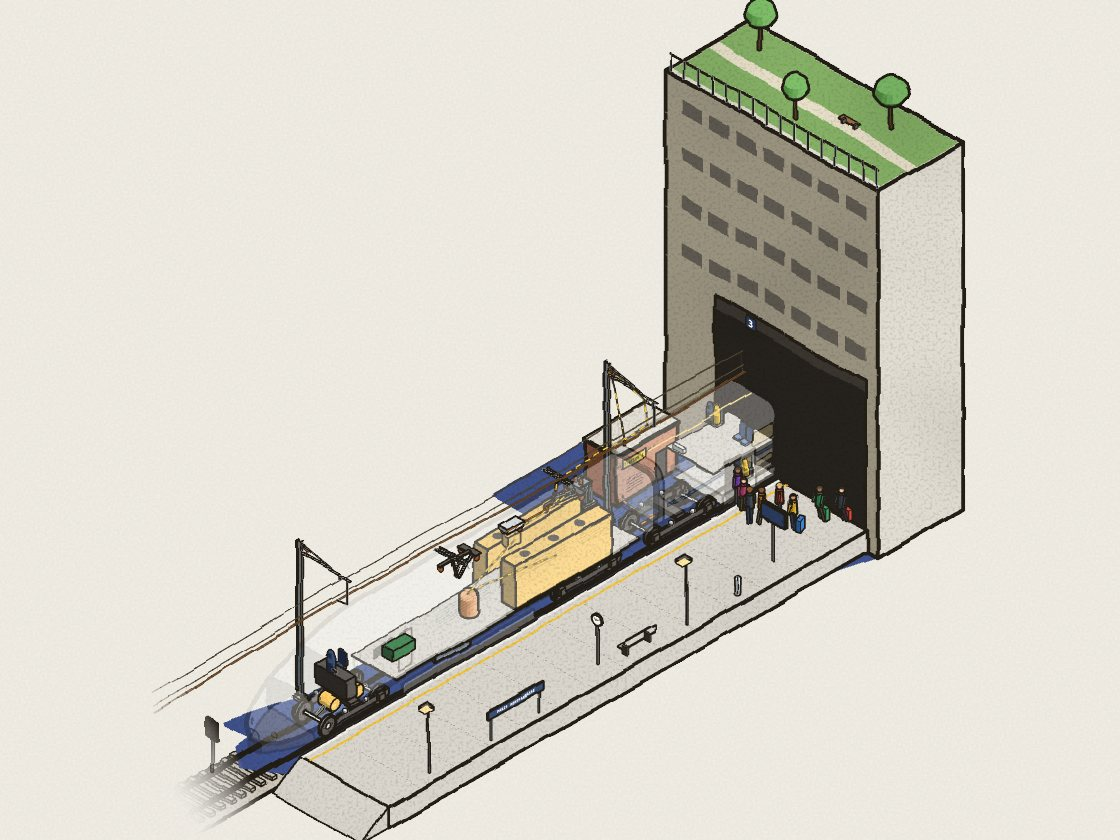
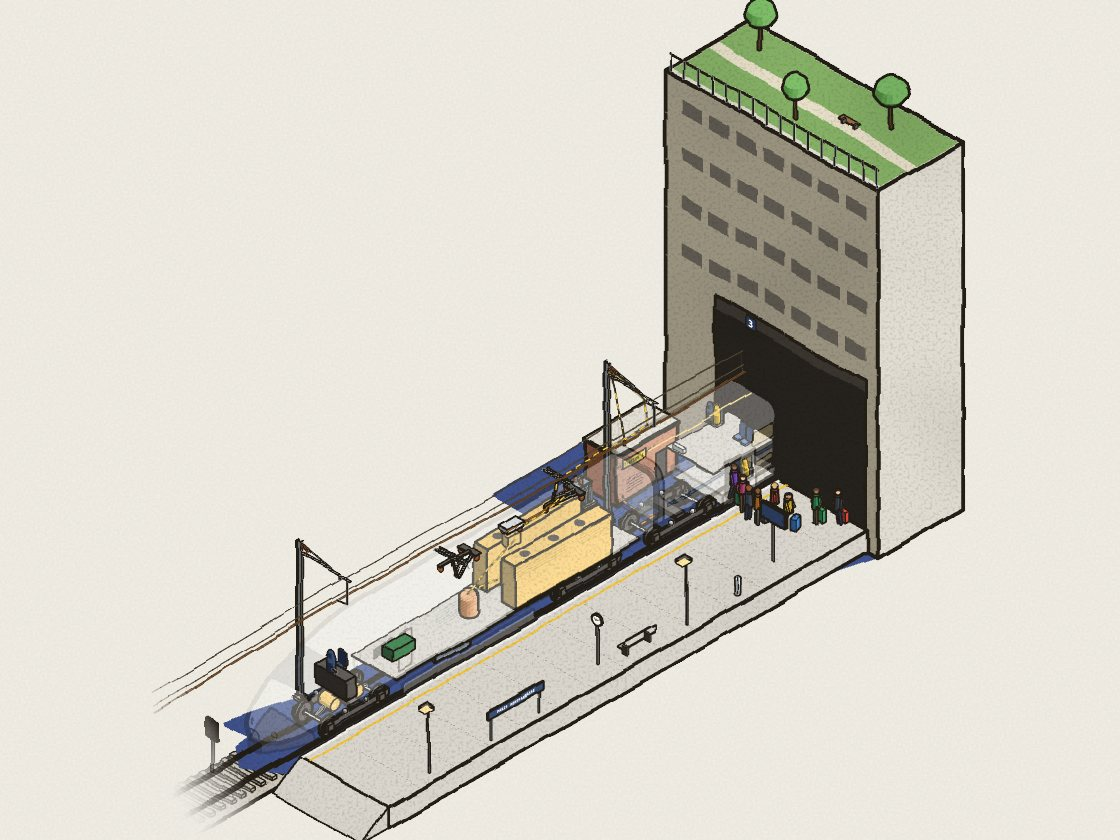
TGV : scintillements corrigés, figure plus fluide
- Le tri ne se laisse plus piéger par la grande boîte de la dalle : les
  voyageur·euse·s sortent devant elle, et dans un cycle les boîtes
  séparées gardent leur ordre (la profondeur ne départage qu'en dernier).
  La voiture ne clignote plus derrière la face sombre pendant
  l'embarquement.
- Pare-brise : seulement le haut du nez (il débordait sur l'arrondi bas).
- Fluidité : sol (ballast, traverses, ombres fixes) redessiné seulement
  quand la vue tourne, gravier en motif, étiquettes calculées seulement
  quand elles sont affichées, moins de facettes ; pendant les animations
  et la rotation à la main, le grain du papier est remplacé par une
  teinte unie de même luminosité. Rendu d'une image : 19 -> 14 ms.

Claude-Session: https://claude.ai/code/session_01Ww5YNuDCWfJJo8wc14Vv2R

diff --git a/figures/tgv-montparnasse.html b/figures/tgv-montparnasse.html
@@ -724,7 +724,7 @@ function kit(){ const parts = [];
   const put = (b, svg) => { if (svg) parts.push({ box: b, svg }); };
   return { parts, put,
     bx: (x0, y0, z0, x1, y1, z1, M, sh = tone, w = .8) => put([[x0, y0, z0], [x1, y1, z1]], box(x0, y0, z0, x1, y1, z1, M, sh, w)),
-    rd: (a, b, r, M, sh = tone, w = .8, r1 = r, n = 12) => put(rbox(a, b, r, r1), rod(a, b, r, M, sh, w, r1, n)) }; }
+    rd: (a, b, r, M, sh = tone, w = .8, r1 = r, n = 8) => put(rbox(a, b, r, r1), rod(a, b, r, M, sh, w, r1, n)) }; }
 // a thin line (wire, rope, cable) cut into short pieces, each with its own box, so it sorts with the solids it passes
 function lineParts(K, pts, col, w, L = 12, edge = true){
   for (let i = 0; i < pts.length - 1; i++){ const a = pts[i], b = pts[i + 1], n = Math.max(1, Math.ceil(Math.hypot(...sub(b, a)) / L));
@@ -734,24 +734,33 @@ function lineParts(K, pts, col, w, L = 12, edge = true){
 function lcSort(parts){
   const it = parts.filter(Boolean).map(p => { const b = p.box, X = [], Y = [];
     for (const x of [b[0][0], b[1][0]]) for (const y of [b[0][1], b[1][1]]) for (const z of [b[0][2], b[1][2]]){ const q = P(x, y, z); X.push(q[0]); Y.push(q[1]); }
-    return { p, d: depthOf(boxMid(b)), x0: Math.min(...X), x1: Math.max(...X), y0: Math.min(...Y), y1: Math.max(...Y), out: [], i: -1, low: 0, on: false }; });
+    return { p, d: depthOf(boxMid(b)), x0: Math.min(...X), x1: Math.max(...X), y0: Math.min(...Y), y1: Math.max(...Y), out: [], hard: [], i: -1, low: 0, on: false }; });
   for (let i = 0; i < it.length; i++) for (let j = i + 1; j < it.length; j++){ const a = it[i], b = it[j];
     if (a.x1 <= b.x0 || b.x1 <= a.x0 || a.y1 <= b.y0 || b.y1 <= a.y0) continue;
     let s = 0, clash = false;
     for (let k = 0; k < 3; k++){ if (Math.abs(CAM_V[k]) < 1e-3) continue; const A = a.p.box, B = b.p.box, v = A[1][k] <= B[0][k] + 1e-6 ? (CAM_V[k] >= 0 ? -1 : 1) : B[1][k] <= A[0][k] + 1e-6 ? (CAM_V[k] >= 0 ? 1 : -1) : 0;
       if (v && s && v !== s) clash = true; if (v) s = v; }
     if (clash) continue;
-    if (!s) s = a.d <= b.d ? -1 : 1;
-    if (s < 0) a.out.push(b); else b.out.push(a); }
+    const hard = !!s; if (!s) s = a.d <= b.d ? -1 : 1;
+    const [u, v] = s < 0 ? [a, b] : [b, a]; u.out.push(v); if (hard) u.hard.push(v); }
   let n = 0; const stk = [], comps = [];
   const visit = v => { v.i = v.low = n++; stk.push(v); v.on = true;
     for (const w of v.out){ if (w.i < 0){ visit(w); v.low = Math.min(v.low, w.low); } else if (w.on) v.low = Math.min(v.low, w.i); }
     if (v.low === v.i){ const c = []; let w; do { w = stk.pop(); w.on = false; c.push(w); } while (w !== v); comps.push(c); } };
   for (const v of it.slice().sort((a, b) => a.d - b.d)) if (v.i < 0) visit(v);
-  return comps.reverse().map(c => c.sort((a, b) => a.d - b.d).map(v => v.p.svg).join('')).join('');
+  // inside a cycle, separated boxes still keep their order (hard edges); only the depth guesses give way
+  const inside = c => { if (c.length < 2) return c; const set = new Set(c), indeg = new Map(c.map(v => [v, 0]));
+    for (const v of c) for (const w of v.hard) if (set.has(w)) indeg.set(w, indeg.get(w) + 1);
+    const left = new Set(c), out = [];
+    while (left.size){ let pick = null;
+      for (const v of left) if (!indeg.get(v) && (!pick || v.d < pick.d)) pick = v;
+      if (!pick) for (const v of left) if (!pick || v.d < pick.d) pick = v;
+      left.delete(pick); out.push(pick); for (const w of pick.hard) if (left.has(w)) indeg.set(w, indeg.get(w) - 1); }
+    return out; };
+  return comps.reverse().map(c => inside(c).map(v => v.p.svg).join('')).join('');
 }
 // a turned part round a vertical axis at (x, y), from a profile [[z, r], ...] bottom to top
-function lathe(x, y, prof, M, w = 1.1, n = 20, sh = tone){
+function lathe(x, y, prof, M, w = 1.1, n = 14, sh = tone){
   const R = prof.map(([z, r]) => on(PZ(z), ellUV(x, y, Math.max(r, .05), Math.max(r, .05), n))); let s = '';
   for (let i = 0; i < R.length - 1; i++) s += loft(R[i], R[i + 1], nr => sh(nr, M));
   s += fill(pd(R[R.length - 1]), sh([0,0,1], M));
@@ -777,10 +786,10 @@ function hollowBox(x0, y0, z0, x1, y1, z1, M, contents, farOp = 1, nearOp = .3, 
 }
 // a plate wheel on an axle along x (TGV wheels are solid discs): tyre band, face with its hub toward the viewer
 function wheelX(xa, xb, y, z, r, M, ang){
-  const A = on(PX(xa), ellUV(y, z, r, r, 26)), B = on(PX(xb), ellUV(y, z, r, r, 26));
+  const A = on(PX(xa), ellUV(y, z, r, r, 18)), B = on(PX(xb), ellUV(y, z, r, r, 18));
   let s = loft(A, B, n => tone(n, TYRE));
   const fx = facing([1,0,0]) ? xb + .02 : facing([-1,0,0]) ? xa - .02 : null;
-  if (fx != null){ const nx = fx > xb ? 1 : -1, rg = (rr, dy = 0, dz = 0) => on(PX(fx), ellUV(y + dy, z + dz, rr, rr, 22));
+  if (fx != null){ const nx = fx > xb ? 1 : -1, rg = (rr, dy = 0, dz = 0) => on(PX(fx), ellUV(y + dy, z + dz, rr, rr, 16));
     s += `<path d="${pd(rg(r))}${pd(rg(r*.86).reverse())}" fill="${tone([nx,0,0], TYRE)}" fill-rule="evenodd"/>` + shape(rg(r*.86), tone([nx,0,0], M), .6)
       + shape(rg(r*.3), tone([nx,0,0], STEEL), .6) + ink(pd(rg(r)), .8);
     for (let i = 0; i < 4; i++){ const a = ang + i*Math.PI/2; s += fill(pd(rg(r*.07, r*.55*Math.cos(a), r*.55*Math.sin(a))), INK); } }
@@ -793,15 +802,13 @@ const txSide = (x, y, z, str, size, col, sg, fam = 'ui-monospace,Menlo,monospace
 const txEnd = (x, y, z, str, size, col, sg, anchor = 'middle', wt = 800) => `<text transform="${txM(P(x, y, z), Dv(sg, 0, 0), Dv(0, 0, -1))}" font-size="${size}" fill="${col}" text-anchor="${anchor}" font-family="ui-monospace,Menlo,monospace" font-weight="${wt}" letter-spacing=".03em">${str}</text>`;
 
 /* ---------- la voie ---------- */
-const GRAVEL = (() => { let sd = 11; const r = () => (sd = (sd*16807) % 2147483647) / 2147483647, o = [];
-  for (let i = 0; i < 700; i++) o.push([TX - 14.5 + 29*r(), SLABY + 1 + (D - SLABY - 2)*r(), r()]); return o; })();
 function trackBed(){
   const pr = [[TX - 15, 0], [TX + 15, 0], [TX + 12.8, BAL], [TX - 12.8, BAL]], A = on(PY(SLABY), pr), B = on(PY(D), pr);
   let s = loft(A, B, n => tone(n, BALLAST));
   if (facing([0,1,0])) s += shape(B, tone([0,1,0], BALLAST), .8);
-  let g = '';
-  for (const [x, y, k] of GRAVEL){ if (Math.abs(x - TX) >= 12.8) continue; const q = .35 + .3*k; g += pd([[x - q, y, BAL + .02], [x + q, y, BAL + .02], [x, y + q, BAL + .02]]); }
-  s += fill(g, BALLAST.d, 'opacity=".55"') + hullInk([...A, ...B], 1.6);
+  const top = [[TX - 12.8, SLABY, BAL + .02], [TX + 12.8, SLABY, BAL + .02], [TX + 12.8, D, BAL + .02], [TX - 12.8, D, BAL + .02]];
+  s += `<defs><pattern id="tgGrav" patternUnits="userSpaceOnUse" width="5.3" height="4.1"><path d="M.6 .9l.9-.5.5.8zM3.1 2.2l.8-.4.4.9zM1.4 3.3l.7-.2.2.6zM4.4 .6l.5.1-.3.5z" fill="${BALLAST.d}" opacity=".6"/></pattern></defs>`
+    + fill(pd(top), 'url(#tgGrav)') + hullInk([...A, ...B], 1.6);
   const sl = [];
   for (let y = SLABY + 3; y < D - 1; y += 6){
     let t = box(TX - 12.5, y - 1.3, BAL, TX + 12.5, y + 1.3, TIE, SLEEPER, tone, .6);                       // traverses béton
@@ -990,7 +997,7 @@ function trainParts(st, m, K, k){
       if (uEnd > 80) s += ink(pd([[x, TY(70), RT + 17], [x, TY(77), RT + 17], [x, TY(77), RT + 36], [x, TY(70), RT + 36]]), .7);
       if (uEnd > 200){ let gr = ''; for (const [a, b] of [[92, 124], [136, 168], [176, 206]]) for (let z = RT + 29; z <= RT + 36; z += 1.4) gr += pd([[x, TY(a), z], [x, TY(b), z]], false);
         s += `<path d="${gr}" fill="none" stroke="${BODY.d}" ${mw(.3)}/>`; } }
-    { const ia = 3*7 + 3, ib = 3*7 + 1 + 6, top = (u, k) => { const pts = secPts(u), c = [TX, TY(u), RT + (secAt(u)[2] + secAt(u)[3])/2]; return pts.slice(7 + 3, 21 + 4).map(p => lerp3(c, p, 1.012)); };
+    { const top = u => { const pts = secPts(u), c = [TX, TY(u), RT + (secAt(u)[2] + secAt(u)[3])/2]; return pts.slice(10, 18).map(p => lerp3(c, p, 1.012)); };
       const A = top(20), B = top(37.5), poly = [...B, ...A.reverse()], n = norm(cross(sub(B[0], A[A.length - 1]), sub(B[B.length - 1], B[0])));
       if (vis([0, .5, .9])) s += shape(poly, GLASSD, .8)
         + clipTo(poly, lathe(TX - 3.6, TY(45), [[RT + 22, 2], [RT + 28, 2.2], [RT + 29.5, 1.2], [RT + 30, 1.3], [RT + 32, 1.2], [RT + 32.4, .3]], NAVY, .7, 12))   // the driver, seen through it
@@ -1248,13 +1255,12 @@ function objects(st, m, k){
   for (const p of K.parts) if (p.box[1][1] > D - 60) p.svg = `<g mask="url(#tgFade)">${p.svg}</g>`;
   return lcSort(K.parts);
 }
-function scene(st, m){
+// what never moves (the fade mask, the fixed shadows, ballast and sleepers) is drawn only when the view turns
+function groundSvg(){ return fadeDefs() + staticShadows() + `<g mask="url(#tgFade)">${trackBed()}</g>`; }
+function scene(st, m, withGround = true){
   SS = st.s; const k = ease(st.xr || 0);
-  let s = fadeDefs() + `<defs><filter id="tgGlow" x="-50%" y="-50%" width="200%" height="200%"><feGaussianBlur stdDeviation="${f(1.2*INK_K)}"/></filter></defs>`;
-  let w = staticShadows() + `<g mask="url(#tgFade)">${trackBed() + trainShadow(st) + railsSvg()}</g>`;
-  w += objects(st, m, k);
-  s += w;
-  s += lcCallouts(k > .6 ? insideLabels(st) : surfaceLabels(st));
+  let s = (withGround ? groundSvg() : '') + `<g mask="url(#tgFade)">${trainShadow(st) + railsSvg()}</g>` + objects(st, m, k);
+  if (!document.documentElement.classList.contains('nolabels')) s += lcCallouts(k > .6 ? insideLabels(st) : surfaceLabels(st));
   return s;
 }
 function staticShadows(){
@@ -1311,7 +1317,7 @@ function tick(st, dt){
   // boarding: people come out from under the slab, the count rises, the clock runs to two minutes before departure
   if (st.boarding){ st.spawnT -= dt;
     if (st.spawnT <= 0 && st.spawned < 9){ st.spawnT = .75; st.spawned++;
-      const p = newPerson(st, PE + 14 + (st.spawned*7) % 30, SLABY + 1, { board: true }); p.path = [[p.x, SLABY + 14 + (st.spawned % 3)*3], ...boardPath(p)]; }
+      const p = newPerson(st, PE + 14 + (st.spawned*7) % 30, SLABY + 3, { board: true }); p.path = [[p.x, SLABY + 14 + (st.spawned % 3)*3], ...boardPath(p)]; }
     if (st.doors > .9){ st.boarded = Math.min(CAP, st.boarded + dt*CAP/9); st.minute = Math.min(depMin(st) - 2.5, st.minute + dt*1.7); } }
   stepPeople(st, dt);
   // departure: the agent raises the bat, the signal clears, the driver pushes the lever; current, speed, distance
@@ -1397,7 +1403,34 @@ ui = mountFigure({
 // the people already waiting on the platform, looking at the board
 for (const [x, y, a] of [[96, 104, -Math.PI/2], [101, 110, -Math.PI*.6], [90, 140, Math.PI*.9]]) newPerson(ui.st, x, y, { a });
 ui.render();
+/* ---------- fluidité ----------
+   The drawing is two layers: the ground, rebuilt only when the view turns, and the rest, rebuilt every frame. While
+   something moves, the paper grain (a noise the browser recomputes over the whole figure each frame) is replaced by a
+   flat tone of the same brightness; the wobbly lines stay the same, and the grain comes back when it stops. */
+(() => {
+  const art = document.getElementById('art'); let gk = '', G = null, LV = null;
+  ui.render = () => { const st = ui.st, m = PALS[st.pal]; _clipN = 0; document.documentElement.style.setProperty('--accent', m.l);
+    if (!G || !G.isConnected){ art.innerHTML = '<g></g><g></g>'; G = art.firstChild; LV = art.lastChild; gk = ''; }
+    const key = YAW.toFixed(3) + '/' + PITCH.toFixed(3) + '/' + INK_K;
+    if (key !== gk){ G.innerHTML = inkScale(groundSvg()); gk = key; }
+    LV.innerHTML = inkScale(scene(st, m, false));
+    if (ui.drawStats) ui.drawStats(); };
+  let busy = 0, offT = 0, saved = null;
+  const fast = on => { const fl = document.getElementById('hand'); if (!fl) return;
+    if (on && !saved){ const n1 = fl.querySelector('[result="n1"]'), gr = fl.querySelector('[result="grain"]'); if (!n1 || !gr) return;
+      const fd = document.createElementNS('http://www.w3.org/2000/svg', 'feFlood'); fd.setAttribute('flood-color', 'rgb(251,251,251)'); fd.setAttribute('result', 'grain');
+      saved = [n1, gr, fd]; n1.replaceWith(fd); gr.remove(); }
+    else if (!on && saved){ const [n1, gr, fd] = saved; fd.replaceWith(n1); n1.after(gr); saved = null; } };
+  const anim = ui.animate;
+  ui.animate = step => { busy++; clearTimeout(offT); fast(true); let done = false;
+    anim(dt => { const r = step(dt); if (r === false && !done){ done = true; if (--busy <= 0){ busy = 0; offT = setTimeout(() => fast(false), 250); } } return r; }); };
+  // turning the figure by hand is a motion too
+  const fig = document.getElementById('fig');
+  fig.addEventListener('pointerdown', () => { clearTimeout(offT); fast(true); });
+  addEventListener('pointerup', () => { if (!busy) offT = setTimeout(() => fast(false), 250); });
+})();
 xrMount(() => ui, () => '');
+document.getElementById('lblb').addEventListener('click', () => ui.render());          // labels are drawn only when shown
 
 // tests: ?sim=Lever@0.3,Afficher@2&at=9 presses the buttons at those times (s) in a fast simulation, then draws once;
 // ?bench=1 times a full redraw (<html data-bench="ms">); ?shot=1 hides the page around the drawing

diff --git a/src/tgv-montparnasse/figure.html b/src/tgv-montparnasse/figure.html
@@ -81,7 +81,7 @@ function kit(){ const parts = [];
   const put = (b, svg) => { if (svg) parts.push({ box: b, svg }); };
   return { parts, put,
     bx: (x0, y0, z0, x1, y1, z1, M, sh = tone, w = .8) => put([[x0, y0, z0], [x1, y1, z1]], box(x0, y0, z0, x1, y1, z1, M, sh, w)),
-    rd: (a, b, r, M, sh = tone, w = .8, r1 = r, n = 12) => put(rbox(a, b, r, r1), rod(a, b, r, M, sh, w, r1, n)) }; }
+    rd: (a, b, r, M, sh = tone, w = .8, r1 = r, n = 8) => put(rbox(a, b, r, r1), rod(a, b, r, M, sh, w, r1, n)) }; }
 // a thin line (wire, rope, cable) cut into short pieces, each with its own box, so it sorts with the solids it passes
 function lineParts(K, pts, col, w, L = 12, edge = true){
   for (let i = 0; i < pts.length - 1; i++){ const a = pts[i], b = pts[i + 1], n = Math.max(1, Math.ceil(Math.hypot(...sub(b, a)) / L));
@@ -91,24 +91,33 @@ function lineParts(K, pts, col, w, L = 12, edge = true){
 function lcSort(parts){
   const it = parts.filter(Boolean).map(p => { const b = p.box, X = [], Y = [];
     for (const x of [b[0][0], b[1][0]]) for (const y of [b[0][1], b[1][1]]) for (const z of [b[0][2], b[1][2]]){ const q = P(x, y, z); X.push(q[0]); Y.push(q[1]); }
-    return { p, d: depthOf(boxMid(b)), x0: Math.min(...X), x1: Math.max(...X), y0: Math.min(...Y), y1: Math.max(...Y), out: [], i: -1, low: 0, on: false }; });
+    return { p, d: depthOf(boxMid(b)), x0: Math.min(...X), x1: Math.max(...X), y0: Math.min(...Y), y1: Math.max(...Y), out: [], hard: [], i: -1, low: 0, on: false }; });
   for (let i = 0; i < it.length; i++) for (let j = i + 1; j < it.length; j++){ const a = it[i], b = it[j];
     if (a.x1 <= b.x0 || b.x1 <= a.x0 || a.y1 <= b.y0 || b.y1 <= a.y0) continue;
     let s = 0, clash = false;
     for (let k = 0; k < 3; k++){ if (Math.abs(CAM_V[k]) < 1e-3) continue; const A = a.p.box, B = b.p.box, v = A[1][k] <= B[0][k] + 1e-6 ? (CAM_V[k] >= 0 ? -1 : 1) : B[1][k] <= A[0][k] + 1e-6 ? (CAM_V[k] >= 0 ? 1 : -1) : 0;
       if (v && s && v !== s) clash = true; if (v) s = v; }
     if (clash) continue;
-    if (!s) s = a.d <= b.d ? -1 : 1;
-    if (s < 0) a.out.push(b); else b.out.push(a); }
+    const hard = !!s; if (!s) s = a.d <= b.d ? -1 : 1;
+    const [u, v] = s < 0 ? [a, b] : [b, a]; u.out.push(v); if (hard) u.hard.push(v); }
   let n = 0; const stk = [], comps = [];
   const visit = v => { v.i = v.low = n++; stk.push(v); v.on = true;
     for (const w of v.out){ if (w.i < 0){ visit(w); v.low = Math.min(v.low, w.low); } else if (w.on) v.low = Math.min(v.low, w.i); }
     if (v.low === v.i){ const c = []; let w; do { w = stk.pop(); w.on = false; c.push(w); } while (w !== v); comps.push(c); } };
   for (const v of it.slice().sort((a, b) => a.d - b.d)) if (v.i < 0) visit(v);
-  return comps.reverse().map(c => c.sort((a, b) => a.d - b.d).map(v => v.p.svg).join('')).join('');
+  // inside a cycle, separated boxes still keep their order (hard edges); only the depth guesses give way
+  const inside = c => { if (c.length < 2) return c; const set = new Set(c), indeg = new Map(c.map(v => [v, 0]));
+    for (const v of c) for (const w of v.hard) if (set.has(w)) indeg.set(w, indeg.get(w) + 1);
+    const left = new Set(c), out = [];
+    while (left.size){ let pick = null;
+      for (const v of left) if (!indeg.get(v) && (!pick || v.d < pick.d)) pick = v;
+      if (!pick) for (const v of left) if (!pick || v.d < pick.d) pick = v;
+      left.delete(pick); out.push(pick); for (const w of pick.hard) if (left.has(w)) indeg.set(w, indeg.get(w) - 1); }
+    return out; };
+  return comps.reverse().map(c => inside(c).map(v => v.p.svg).join('')).join('');
 }
 // a turned part round a vertical axis at (x, y), from a profile [[z, r], ...] bottom to top
-function lathe(x, y, prof, M, w = 1.1, n = 20, sh = tone){
+function lathe(x, y, prof, M, w = 1.1, n = 14, sh = tone){
   const R = prof.map(([z, r]) => on(PZ(z), ellUV(x, y, Math.max(r, .05), Math.max(r, .05), n))); let s = '';
   for (let i = 0; i < R.length - 1; i++) s += loft(R[i], R[i + 1], nr => sh(nr, M));
   s += fill(pd(R[R.length - 1]), sh([0,0,1], M));
@@ -134,10 +143,10 @@ function hollowBox(x0, y0, z0, x1, y1, z1, M, contents, farOp = 1, nearOp = .3, 
 }
 // a plate wheel on an axle along x (TGV wheels are solid discs): tyre band, face with its hub toward the viewer
 function wheelX(xa, xb, y, z, r, M, ang){
-  const A = on(PX(xa), ellUV(y, z, r, r, 26)), B = on(PX(xb), ellUV(y, z, r, r, 26));
+  const A = on(PX(xa), ellUV(y, z, r, r, 18)), B = on(PX(xb), ellUV(y, z, r, r, 18));
   let s = loft(A, B, n => tone(n, TYRE));
   const fx = facing([1,0,0]) ? xb + .02 : facing([-1,0,0]) ? xa - .02 : null;
-  if (fx != null){ const nx = fx > xb ? 1 : -1, rg = (rr, dy = 0, dz = 0) => on(PX(fx), ellUV(y + dy, z + dz, rr, rr, 22));
+  if (fx != null){ const nx = fx > xb ? 1 : -1, rg = (rr, dy = 0, dz = 0) => on(PX(fx), ellUV(y + dy, z + dz, rr, rr, 16));
     s += `<path d="${pd(rg(r))}${pd(rg(r*.86).reverse())}" fill="${tone([nx,0,0], TYRE)}" fill-rule="evenodd"/>` + shape(rg(r*.86), tone([nx,0,0], M), .6)
       + shape(rg(r*.3), tone([nx,0,0], STEEL), .6) + ink(pd(rg(r)), .8);
     for (let i = 0; i < 4; i++){ const a = ang + i*Math.PI/2; s += fill(pd(rg(r*.07, r*.55*Math.cos(a), r*.55*Math.sin(a))), INK); } }
@@ -150,15 +159,13 @@ const txSide = (x, y, z, str, size, col, sg, fam = 'ui-monospace,Menlo,monospace
 const txEnd = (x, y, z, str, size, col, sg, anchor = 'middle', wt = 800) => `<text transform="${txM(P(x, y, z), Dv(sg, 0, 0), Dv(0, 0, -1))}" font-size="${size}" fill="${col}" text-anchor="${anchor}" font-family="ui-monospace,Menlo,monospace" font-weight="${wt}" letter-spacing=".03em">${str}</text>`;
 
 /* ---------- la voie ---------- */
-const GRAVEL = (() => { let sd = 11; const r = () => (sd = (sd*16807) % 2147483647) / 2147483647, o = [];
-  for (let i = 0; i < 700; i++) o.push([TX - 14.5 + 29*r(), SLABY + 1 + (D - SLABY - 2)*r(), r()]); return o; })();
 function trackBed(){
   const pr = [[TX - 15, 0], [TX + 15, 0], [TX + 12.8, BAL], [TX - 12.8, BAL]], A = on(PY(SLABY), pr), B = on(PY(D), pr);
   let s = loft(A, B, n => tone(n, BALLAST));
   if (facing([0,1,0])) s += shape(B, tone([0,1,0], BALLAST), .8);
-  let g = '';
-  for (const [x, y, k] of GRAVEL){ if (Math.abs(x - TX) >= 12.8) continue; const q = .35 + .3*k; g += pd([[x - q, y, BAL + .02], [x + q, y, BAL + .02], [x, y + q, BAL + .02]]); }
-  s += fill(g, BALLAST.d, 'opacity=".55"') + hullInk([...A, ...B], 1.6);
+  const top = [[TX - 12.8, SLABY, BAL + .02], [TX + 12.8, SLABY, BAL + .02], [TX + 12.8, D, BAL + .02], [TX - 12.8, D, BAL + .02]];
+  s += `<defs><pattern id="tgGrav" patternUnits="userSpaceOnUse" width="5.3" height="4.1"><path d="M.6 .9l.9-.5.5.8zM3.1 2.2l.8-.4.4.9zM1.4 3.3l.7-.2.2.6zM4.4 .6l.5.1-.3.5z" fill="${BALLAST.d}" opacity=".6"/></pattern></defs>`
+    + fill(pd(top), 'url(#tgGrav)') + hullInk([...A, ...B], 1.6);
   const sl = [];
   for (let y = SLABY + 3; y < D - 1; y += 6){
     let t = box(TX - 12.5, y - 1.3, BAL, TX + 12.5, y + 1.3, TIE, SLEEPER, tone, .6);                       // traverses béton
@@ -347,7 +354,7 @@ function trainParts(st, m, K, k){
       if (uEnd > 80) s += ink(pd([[x, TY(70), RT + 17], [x, TY(77), RT + 17], [x, TY(77), RT + 36], [x, TY(70), RT + 36]]), .7);
       if (uEnd > 200){ let gr = ''; for (const [a, b] of [[92, 124], [136, 168], [176, 206]]) for (let z = RT + 29; z <= RT + 36; z += 1.4) gr += pd([[x, TY(a), z], [x, TY(b), z]], false);
         s += `<path d="${gr}" fill="none" stroke="${BODY.d}" ${mw(.3)}/>`; } }
-    { const ia = 3*7 + 3, ib = 3*7 + 1 + 6, top = (u, k) => { const pts = secPts(u), c = [TX, TY(u), RT + (secAt(u)[2] + secAt(u)[3])/2]; return pts.slice(7 + 3, 21 + 4).map(p => lerp3(c, p, 1.012)); };
+    { const top = u => { const pts = secPts(u), c = [TX, TY(u), RT + (secAt(u)[2] + secAt(u)[3])/2]; return pts.slice(10, 18).map(p => lerp3(c, p, 1.012)); };
       const A = top(20), B = top(37.5), poly = [...B, ...A.reverse()], n = norm(cross(sub(B[0], A[A.length - 1]), sub(B[B.length - 1], B[0])));
       if (vis([0, .5, .9])) s += shape(poly, GLASSD, .8)
         + clipTo(poly, lathe(TX - 3.6, TY(45), [[RT + 22, 2], [RT + 28, 2.2], [RT + 29.5, 1.2], [RT + 30, 1.3], [RT + 32, 1.2], [RT + 32.4, .3]], NAVY, .7, 12))   // the driver, seen through it
@@ -605,13 +612,12 @@ function objects(st, m, k){
   for (const p of K.parts) if (p.box[1][1] > D - 60) p.svg = `<g mask="url(#tgFade)">${p.svg}</g>`;
   return lcSort(K.parts);
 }
-function scene(st, m){
+// what never moves (the fade mask, the fixed shadows, ballast and sleepers) is drawn only when the view turns
+function groundSvg(){ return fadeDefs() + staticShadows() + `<g mask="url(#tgFade)">${trackBed()}</g>`; }
+function scene(st, m, withGround = true){
   SS = st.s; const k = ease(st.xr || 0);
-  let s = fadeDefs() + `<defs><filter id="tgGlow" x="-50%" y="-50%" width="200%" height="200%"><feGaussianBlur stdDeviation="${f(1.2*INK_K)}"/></filter></defs>`;
-  let w = staticShadows() + `<g mask="url(#tgFade)">${trackBed() + trainShadow(st) + railsSvg()}</g>`;
-  w += objects(st, m, k);
-  s += w;
-  s += lcCallouts(k > .6 ? insideLabels(st) : surfaceLabels(st));
+  let s = (withGround ? groundSvg() : '') + `<g mask="url(#tgFade)">${trainShadow(st) + railsSvg()}</g>` + objects(st, m, k);
+  if (!document.documentElement.classList.contains('nolabels')) s += lcCallouts(k > .6 ? insideLabels(st) : surfaceLabels(st));
   return s;
 }
 function staticShadows(){
@@ -668,7 +674,7 @@ function tick(st, dt){
   // boarding: people come out from under the slab, the count rises, the clock runs to two minutes before departure
   if (st.boarding){ st.spawnT -= dt;
     if (st.spawnT <= 0 && st.spawned < 9){ st.spawnT = .75; st.spawned++;
-      const p = newPerson(st, PE + 14 + (st.spawned*7) % 30, SLABY + 1, { board: true }); p.path = [[p.x, SLABY + 14 + (st.spawned % 3)*3], ...boardPath(p)]; }
+      const p = newPerson(st, PE + 14 + (st.spawned*7) % 30, SLABY + 3, { board: true }); p.path = [[p.x, SLABY + 14 + (st.spawned % 3)*3], ...boardPath(p)]; }
     if (st.doors > .9){ st.boarded = Math.min(CAP, st.boarded + dt*CAP/9); st.minute = Math.min(depMin(st) - 2.5, st.minute + dt*1.7); } }
   stepPeople(st, dt);
   // departure: the agent raises the bat, the signal clears, the driver pushes the lever; current, speed, distance
@@ -754,7 +760,34 @@ ui = mountFigure({
 // the people already waiting on the platform, looking at the board
 for (const [x, y, a] of [[96, 104, -Math.PI/2], [101, 110, -Math.PI*.6], [90, 140, Math.PI*.9]]) newPerson(ui.st, x, y, { a });
 ui.render();
+/* ---------- fluidité ----------
+   The drawing is two layers: the ground, rebuilt only when the view turns, and the rest, rebuilt every frame. While
+   something moves, the paper grain (a noise the browser recomputes over the whole figure each frame) is replaced by a
+   flat tone of the same brightness; the wobbly lines stay the same, and the grain comes back when it stops. */
+(() => {
+  const art = document.getElementById('art'); let gk = '', G = null, LV = null;
+  ui.render = () => { const st = ui.st, m = PALS[st.pal]; _clipN = 0; document.documentElement.style.setProperty('--accent', m.l);
+    if (!G || !G.isConnected){ art.innerHTML = '<g></g><g></g>'; G = art.firstChild; LV = art.lastChild; gk = ''; }
+    const key = YAW.toFixed(3) + '/' + PITCH.toFixed(3) + '/' + INK_K;
+    if (key !== gk){ G.innerHTML = inkScale(groundSvg()); gk = key; }
+    LV.innerHTML = inkScale(scene(st, m, false));
+    if (ui.drawStats) ui.drawStats(); };
+  let busy = 0, offT = 0, saved = null;
+  const fast = on => { const fl = document.getElementById('hand'); if (!fl) return;
+    if (on && !saved){ const n1 = fl.querySelector('[result="n1"]'), gr = fl.querySelector('[result="grain"]'); if (!n1 || !gr) return;
+      const fd = document.createElementNS('http://www.w3.org/2000/svg', 'feFlood'); fd.setAttribute('flood-color', 'rgb(251,251,251)'); fd.setAttribute('result', 'grain');
+      saved = [n1, gr, fd]; n1.replaceWith(fd); gr.remove(); }
+    else if (!on && saved){ const [n1, gr, fd] = saved; fd.replaceWith(n1); n1.after(gr); saved = null; } };
+  const anim = ui.animate;
+  ui.animate = step => { busy++; clearTimeout(offT); fast(true); let done = false;
+    anim(dt => { const r = step(dt); if (r === false && !done){ done = true; if (--busy <= 0){ busy = 0; offT = setTimeout(() => fast(false), 250); } } return r; }); };
+  // turning the figure by hand is a motion too
+  const fig = document.getElementById('fig');
+  fig.addEventListener('pointerdown', () => { clearTimeout(offT); fast(true); });
+  addEventListener('pointerup', () => { if (!busy) offT = setTimeout(() => fast(false), 250); });
+})();
 xrMount(() => ui, () => '');
+document.getElementById('lblb').addEventListener('click', () => ui.render());          // labels are drawn only when shown
 
 // tests: ?sim=Lever@0.3,Afficher@2&at=9 presses the buttons at those times (s) in a fast simulation, then draws once;
 // ?bench=1 times a full redraw (<html data-bench="ms">); ?shot=1 hides the page around the drawing
